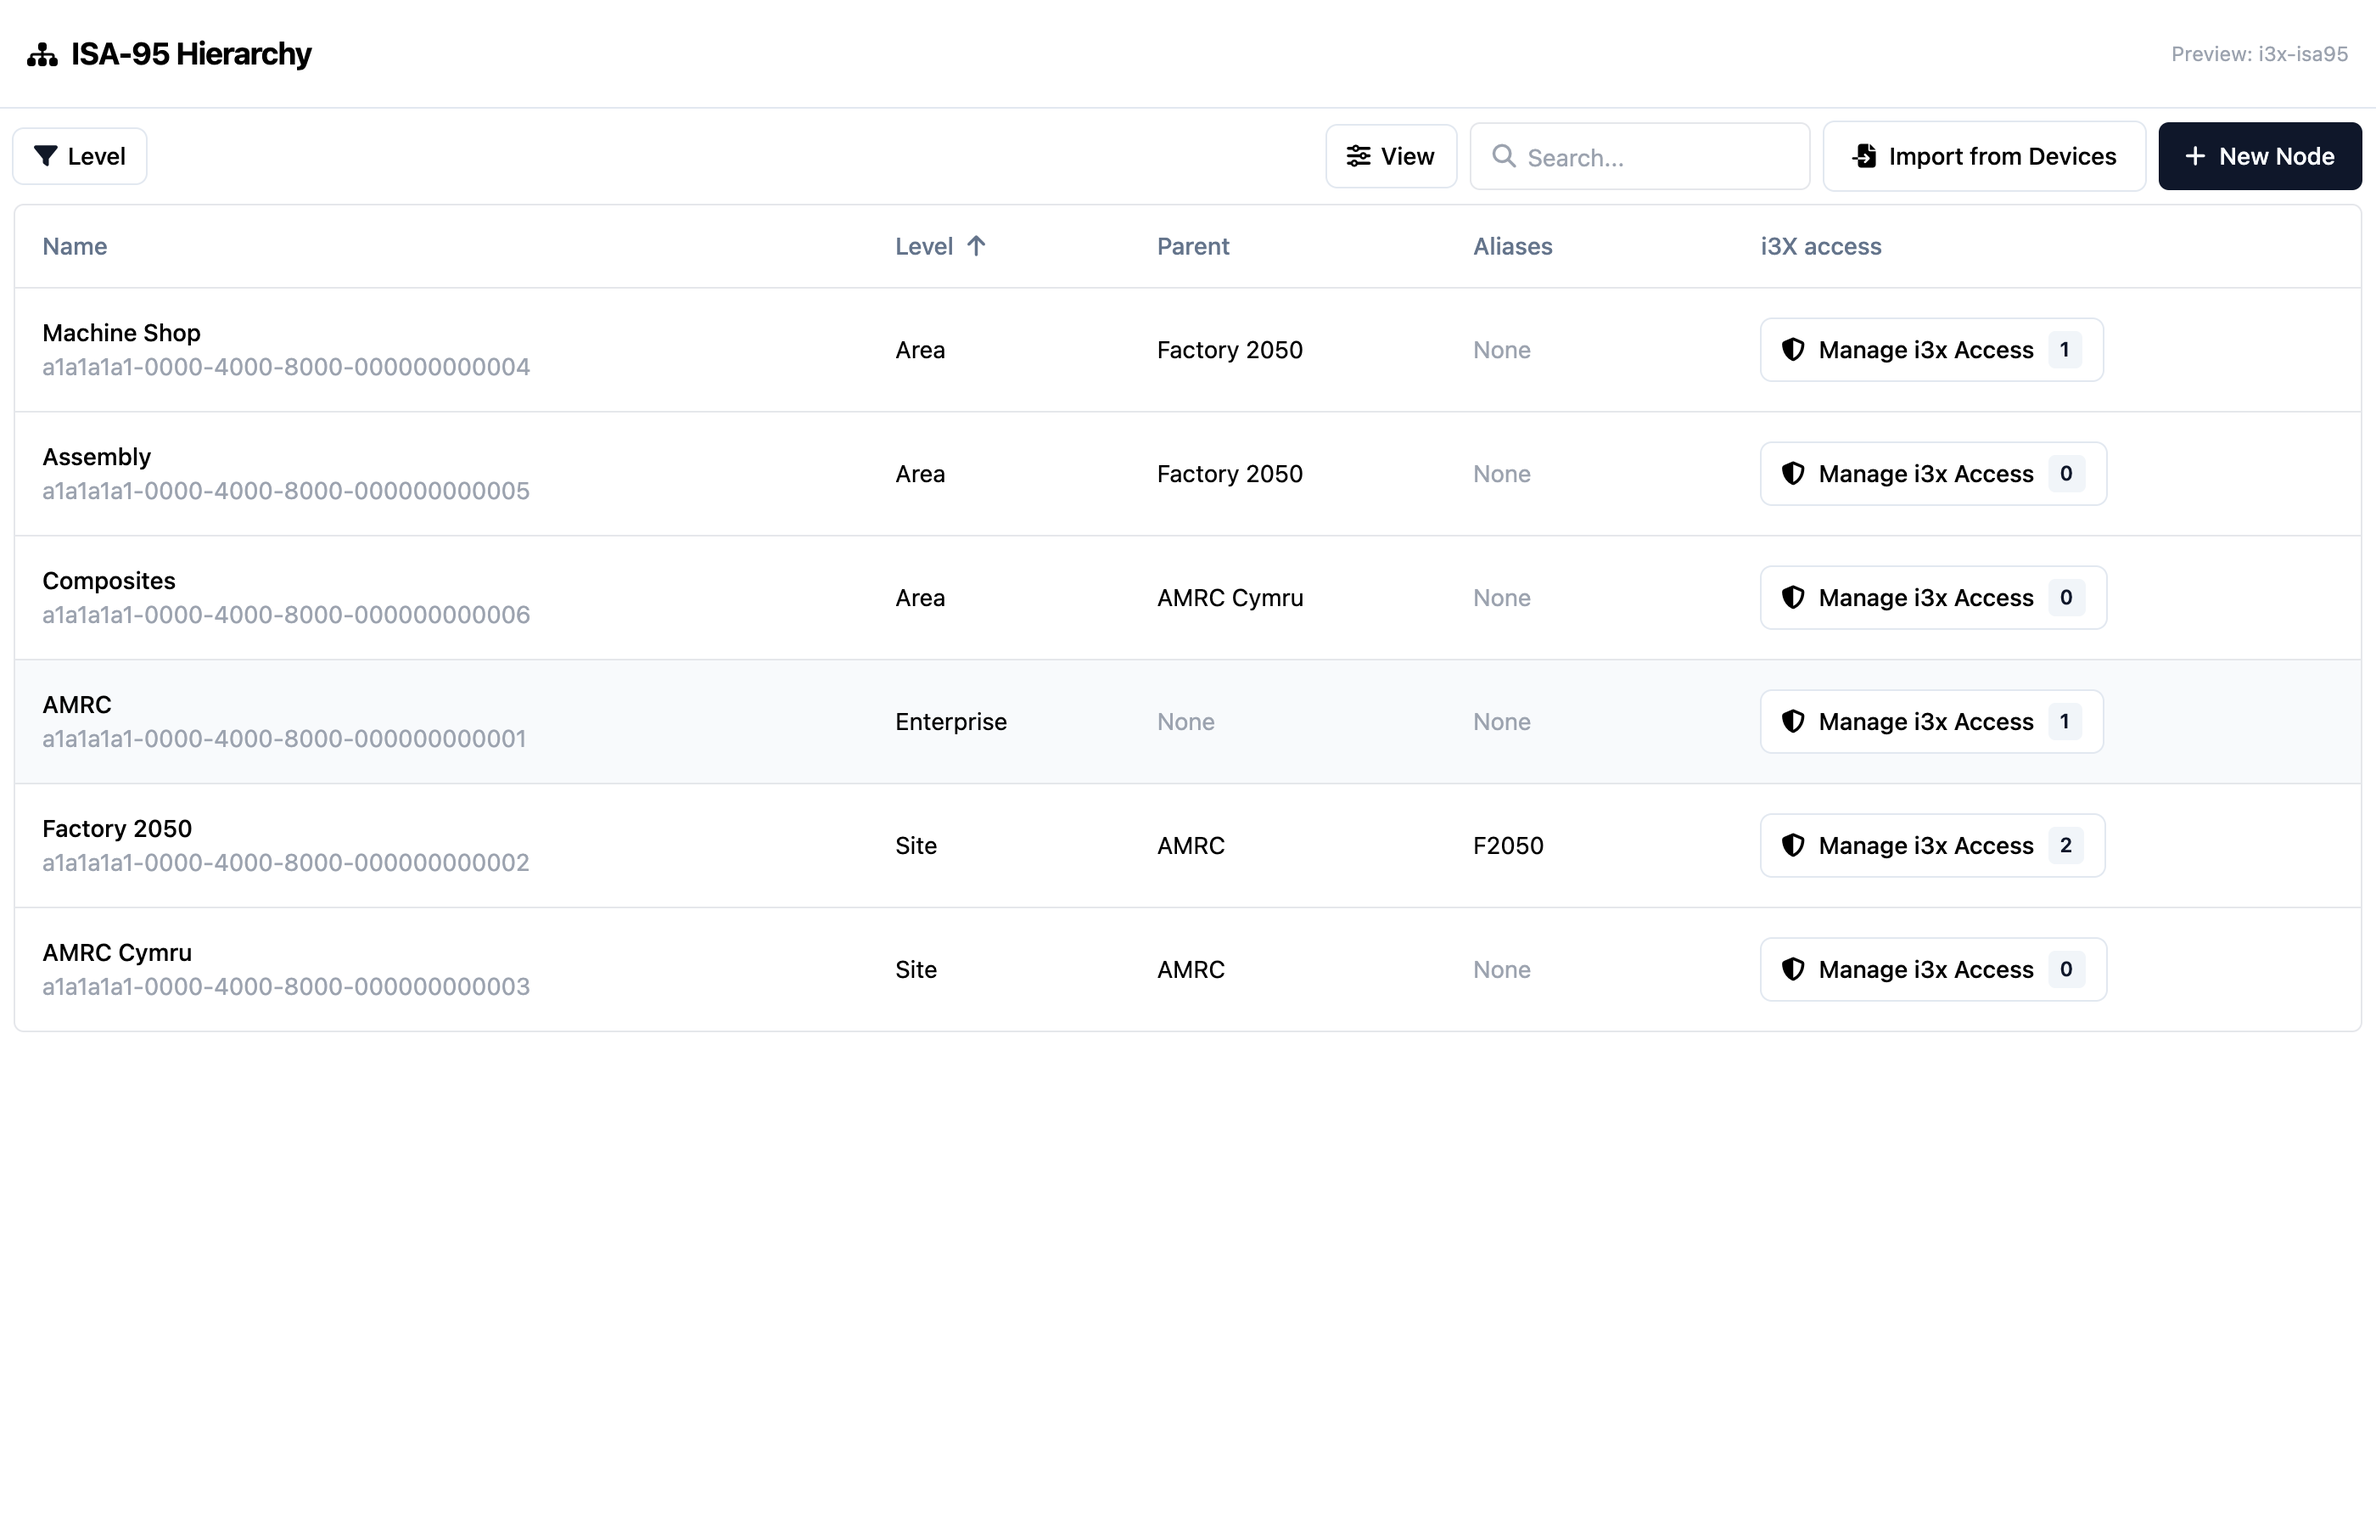
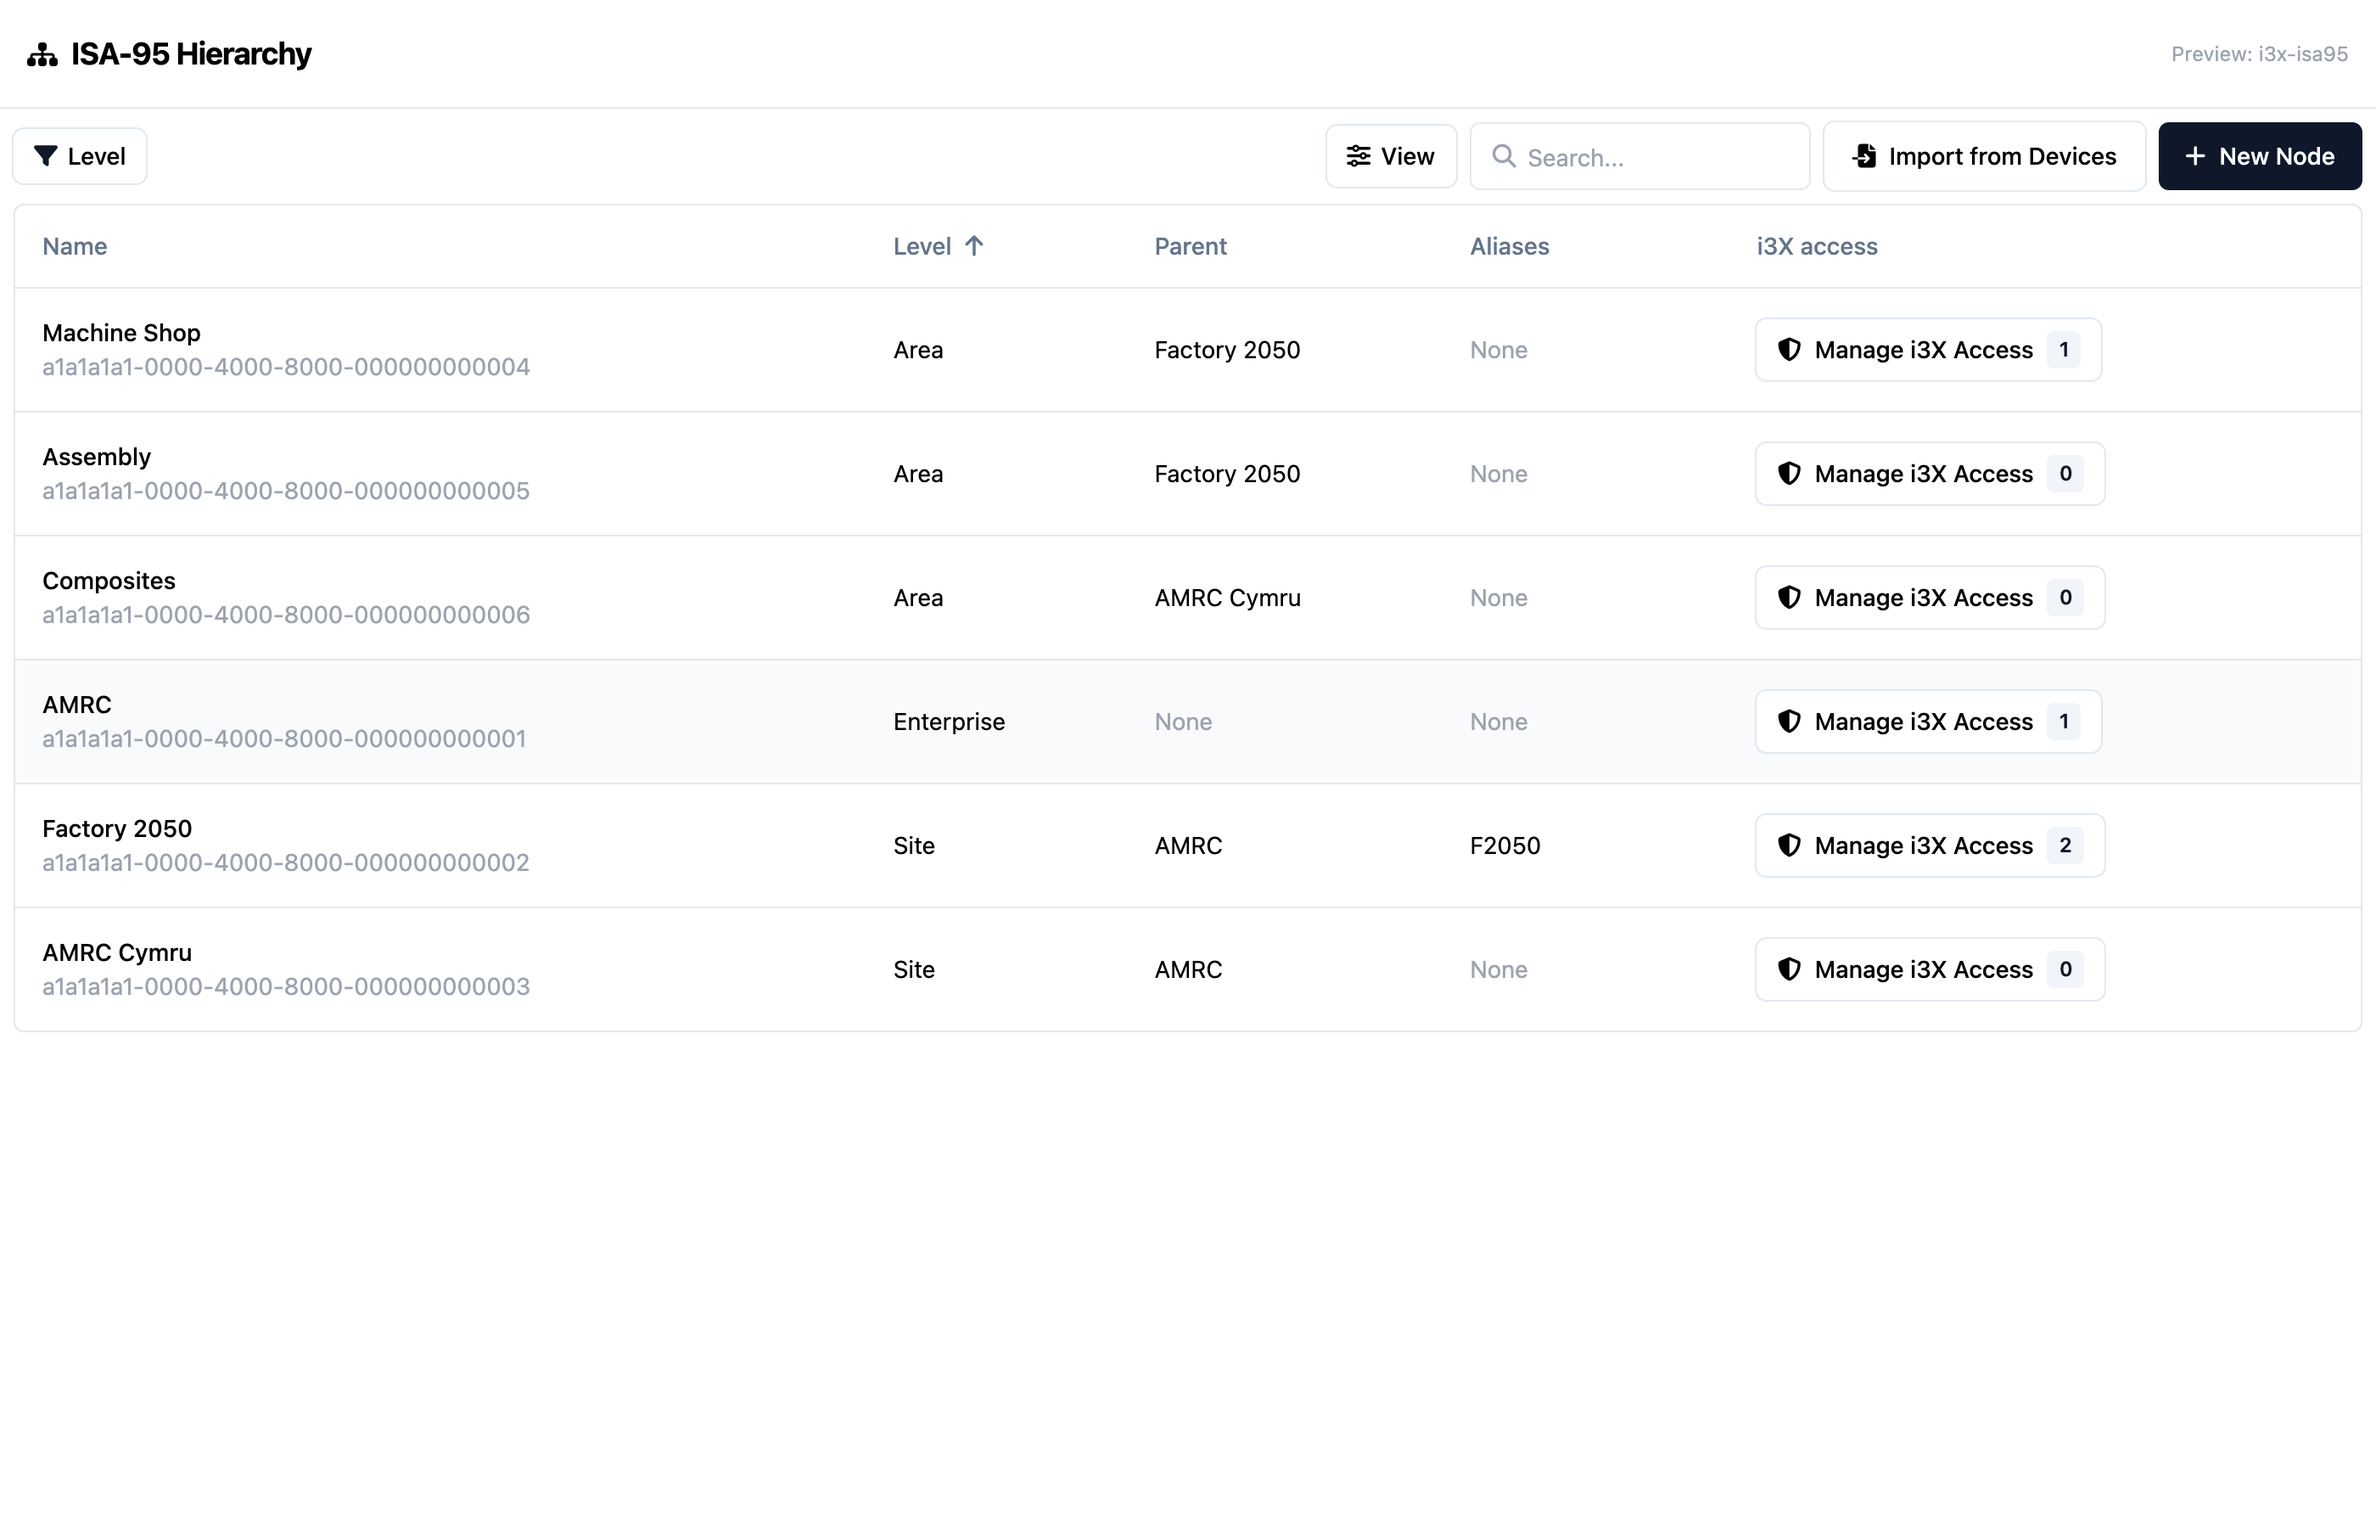
Admin: spell i3X with a capital X on the access button
The button read "Manage i3x Access" while the dialog it opens, and the
rest of the UI, say i3X. Comments that name the service in prose follow
suit; code identifiers, package names and config keys keep lower case.
The PR screenshots are retaken with the new label.

diff --git a/acs-admin/src/composables/useI3xClient.js b/acs-admin/src/composables/useI3xClient.js
@@ -143,7 +143,7 @@ export function useI3xClient () {
     },
 
     /**
-     * Resolve the i3x service base URL (including `/v1`) via Directory.
+     * Resolve the i3X service base URL (including `/v1`) via Directory.
      * Async because Directory lookup may hit the network on first call.
      * SSE streams need this — fetchEventSource takes an absolute URL and
      * can't go through the service-client's Fetch wrapper.
@@ -154,7 +154,7 @@ export function useI3xClient () {
     },
 
     /**
-     * Open an authenticated SSE stream against i3x's subscriptions/stream
+     * Open an authenticated SSE stream against i3X's subscriptions/stream
      * endpoint. Resolves the service URL and a Bearer token via the
      * service-client (same path Fetch.fetch uses), then opens an SSE
      * connection with the token in the Authorization header.

diff --git a/acs-admin/src/components/Access/I3xAccessButton.vue b/acs-admin/src/components/Access/I3xAccessButton.vue
@@ -1,6 +1,6 @@
 <!--
   - ACS Admin
-  - The "Manage i3x Access" button: how many people and groups can read
+  - The "Manage i3X Access" button: how many people and groups can read
   - a device or ISA-95 node through i3X, and the dialog to change it.
   - Copyright 2026 University of Sheffield AMRC
   -->
@@ -12,7 +12,7 @@
 <template>
   <Button variant="outline" size="sm" class="gap-2" :title="title" @click.stop="open = true">
     <i class="fa-solid fa-shield-halved text-sm"></i>
-    <span>Manage i3x Access</span>
+    <span>Manage i3X Access</span>
     <Badge variant="secondary" class="min-w-5 justify-center px-1.5" :aria-label="title">
       <i v-if="count === null && loading" class="fa-solid fa-circle-notch animate-spin text-[10px]"></i>
       <template v-else>{{ count ?? '?' }}</template>

diff --git a/acs-admin/src/store/useMonitorStore.js b/acs-admin/src/store/useMonitorStore.js
@@ -9,7 +9,7 @@ function generateClientId () {
   // crypto.randomUUID is only available in secure contexts (HTTPS /
   // localhost). On plain http deployments the API is undefined, so
   // fall back to a Math.random-derived id. This identifier is only a
-  // session handle for the i3x subscription registry — not security
+  // session handle for the i3X subscription registry — not security
   // critical — so a weaker generator is fine.
   const uuid = (typeof crypto !== 'undefined' && typeof crypto.randomUUID === 'function')
     ? crypto.randomUUID()

diff --git a/acs-admin/src/composables/useI3xSSE.js b/acs-admin/src/composables/useI3xSSE.js
@@ -5,7 +5,7 @@
 import { fetchEventSource } from '@microsoft/fetch-event-source'
 
 /**
- * Open an SSE stream against i3x's /v1/subscriptions/stream endpoint.
+ * Open an SSE stream against i3X's /v1/subscriptions/stream endpoint.
  *
  * `headers` should include any auth headers the caller wants on the
  * request (e.g. `Authorization: Bearer <token>` resolved via the

diff --git a/docs/reference/release-notes.md b/docs/reference/release-notes.md
@@ -30,7 +30,7 @@ any i3X data after the upgrade until you grant it.** Before you
 upgrade, list the people and service accounts that use the i3X API,
 and grant each of them the devices or ISA-95 nodes they need. The
 device page, the node page's device list, the ISA-95 page and the
-Explorer in the admin UI each have a **Manage i3x Access** button for
+Explorer in the admin UI each have a **Manage i3X Access** button for
 this. It opens a dialog that lists who can read the device or node and
 why, and gives or removes access.
 
